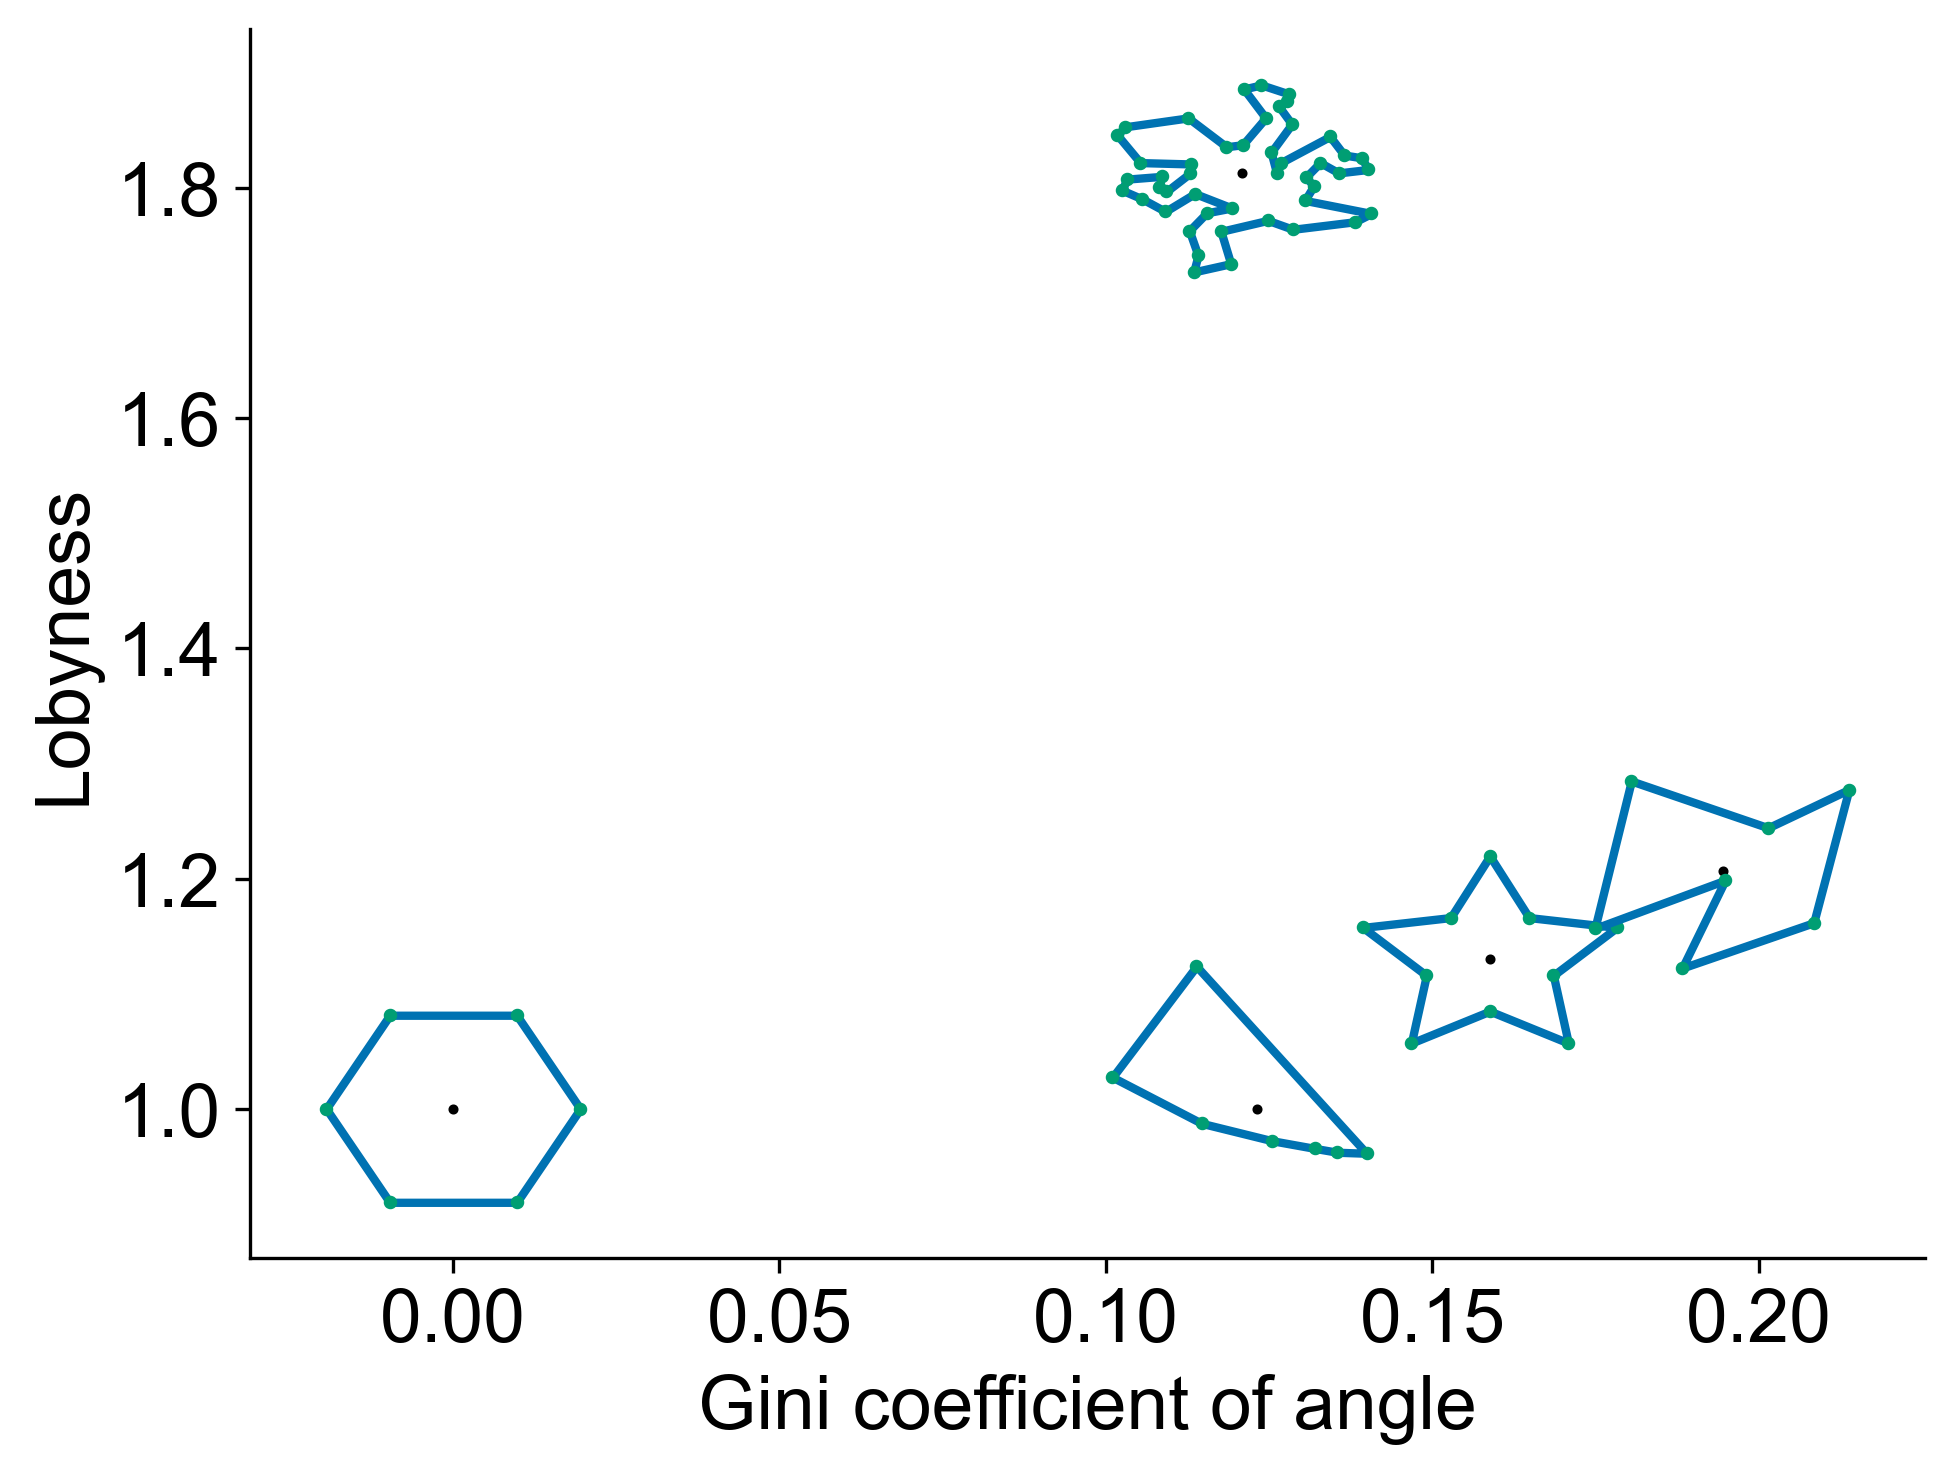
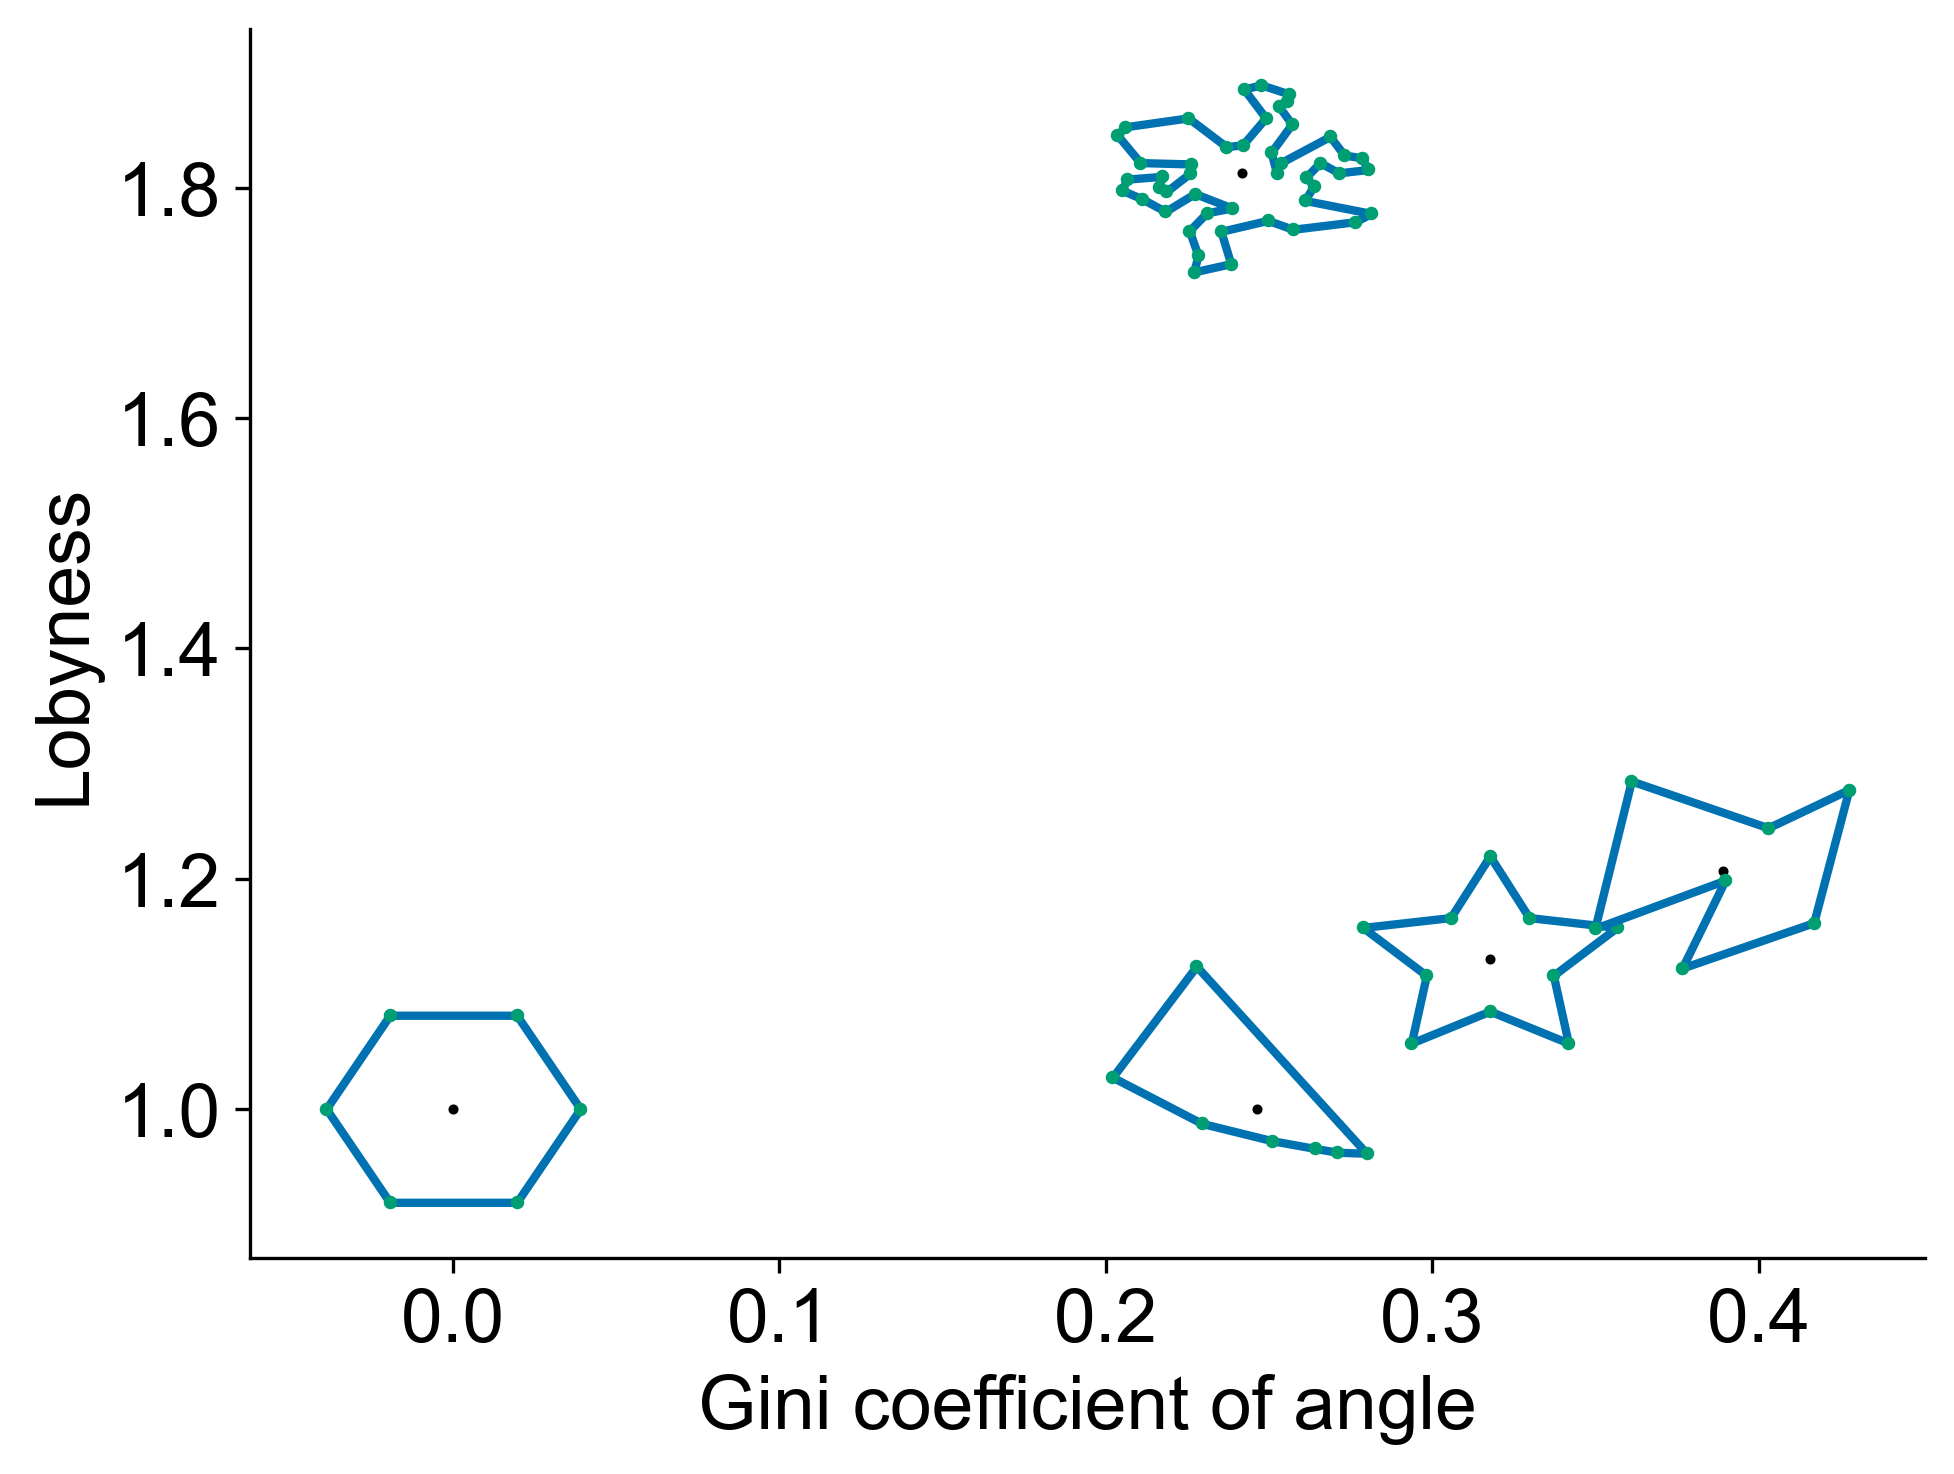
updating figures due to irregularity correction from combinations to permutations in Gini coefficient

diff --git a/Code/Analyze/PlacingValuesOnSkales/PolygonRegularityPlotterAlongAxis.py b/Code/Analyze/PlacingValuesOnSkales/PolygonRegularityPlotterAlongAxis.py
@@ -107,7 +107,7 @@ def visualizeArtificialPolygonsAlongAxisMain(showPlot: bool = False, resultsFold
             filenameToSave = None
         myPolygonRegularityPlotterAlongAxis.PlotOutlinesAndPolygonOf(regularityMeasure, usePropertiesValues=True, ignoreOutline=True,
                                                                      useLinearScale=True, edgeLineWidth=5, vertexSize=40,
-                                                                     fontSize=38, setXTicks=[0, 0.05, 0.1, 0.15, 0.2], setXLabel=False,
+                                                                     fontSize=38, setXTicks=[0, 0.1, 0.2, 0.3, 0.4], setXLabel=False,
                                                                      saveToFilename=filenameToSave)
         
 def visualizeArtificialPolygonsAlongTwoAxisMain(showPlot: bool = False, resultsFolder: str = "Results/",
